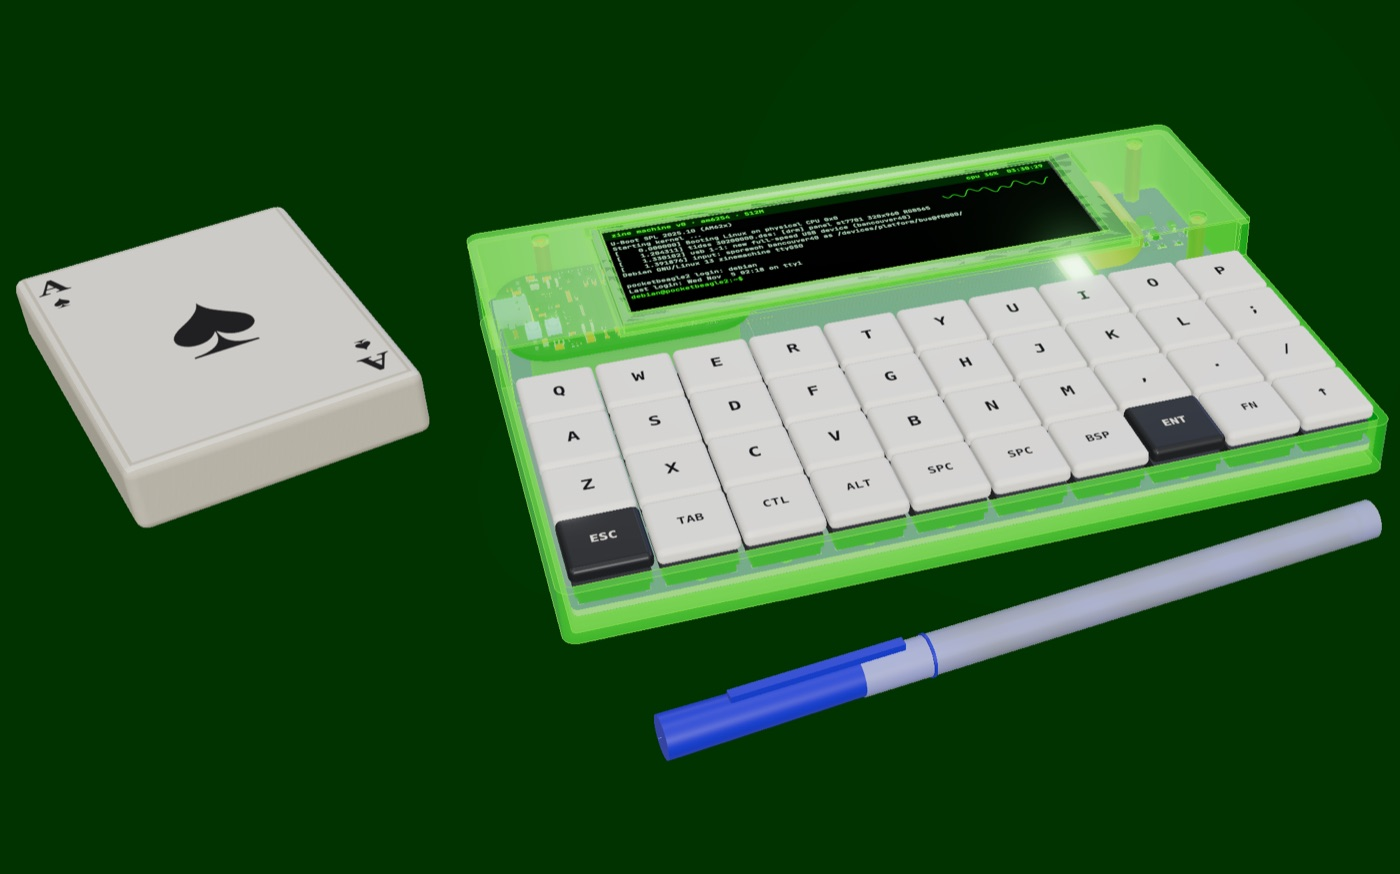
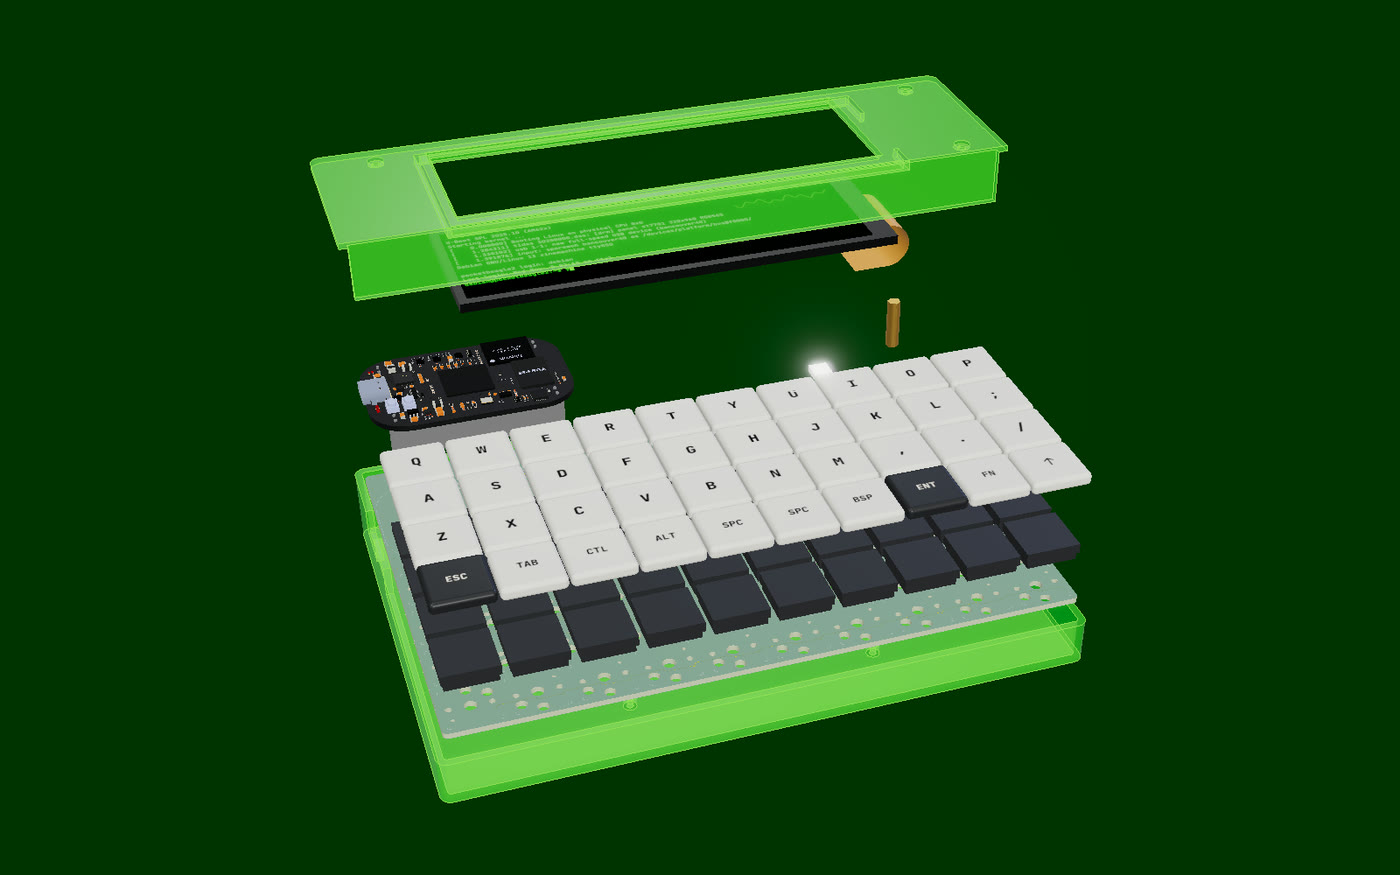
Zine Machine card: exploded-view render from the current 3D page

diff --git a/index.html b/index.html
@@ -50,7 +50,7 @@
       <div class="grid">
 
         <article class="p">
-          <figure><img src="/assets/img/zinemachine.jpg" alt="A 40-key keyboard in a translucent green case with a long bar display, next to a deck of cards and a ballpoint pen" width="1400" height="874" loading="lazy"></figure>
+          <figure><img src="/assets/img/zinemachine.jpg" alt="Exploded view of a 40-key keyboard: a translucent green display bezel and long bar display float above a PocketBeagle 2, keycaps, switches and PCB, over a translucent green case" width="1400" height="875" loading="lazy"></figure>
           <div class="meta"><span>2026</span><span>Hardware · Work in progress</span></div>
           <h3>Zine Machine v0</h3>
           <p>A 40% keyboard with a Linux computer inside. ChrisChrisLoLo’s bancouver40 board, extended to carry a PocketBeagle&nbsp;2 and a 4.58″ 320×960 bar display in a translucent printed case. The PCB was routed in KiCad and the case modelled through SolidCraft’s MCP server, both checked against BeagleBoard’s own 3D model. Not ready for fab yet.</p>
